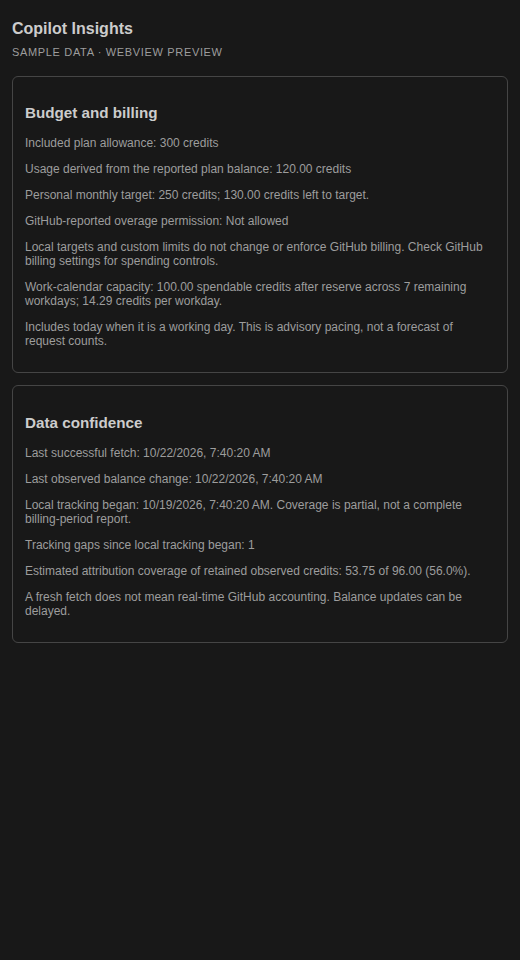
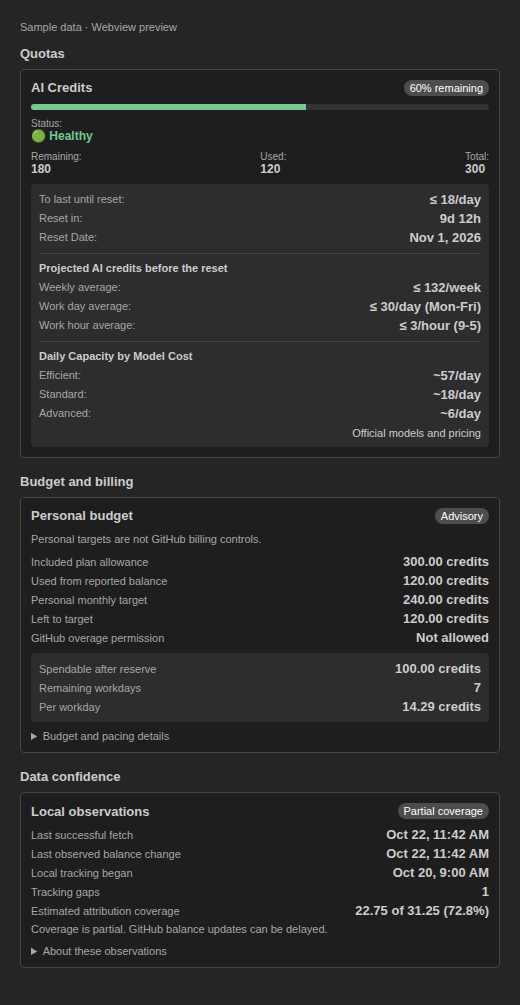
Align new insights panels with existing quota card styling

diff --git a/src/ui/webview/render.ts b/src/ui/webview/render.ts
@@ -207,11 +207,11 @@ export function renderShellHtml(webview: vscode.Webview, extensionUri: vscode.Ur
 
 	<div id="state-data" class="state hidden">
 		<div id="section-stale"></div>
-		<div id="section-confidence"></div>
 		<div id="section-quotas"></div>
-		<div id="section-budget"></div>
-		<div id="section-timeline"></div>
 		<div id="section-quotaBreakdown"></div>
+		<div id="section-budget"></div>
+		<div id="section-confidence"></div>
+		<div id="section-timeline"></div>
 		<div id="section-overage"></div>
 		<div id="section-history"></div>
 		<div id="section-periods"></div>
@@ -306,42 +306,87 @@ function observationDate(time: number | undefined): string {
     : t("Not observed");
 }
 
+/** Compact local dates; exact instants remain available to assistive technology. */
+function observationTime(time: number | undefined): string {
+  if (!time || !Number.isFinite(time)) { return escapeHtml(t("Not observed")); }
+  const date = new Date(time);
+  const label = date.toLocaleString(vscode.env.language, {
+    month: "short", day: "numeric", hour: "numeric", minute: "2-digit",
+  });
+  const exact = escapeHtml(`${observationDate(time)} (${date.toISOString()})`);
+  return `<time datetime="${date.toISOString()}" title="${exact}" aria-label="${exact}">${escapeHtml(label)}</time>`;
+}
+
+function observationRow(label: string, value: string): string {
+  return `<div class="prediction-row"><span class="prediction-label">${escapeHtml(label)}</span>` +
+    `<span class="prediction-value">${value}</span></div>`;
+}
+
+function observationDetails(label: string, text: string): string {
+  return `<details class="observation-details"><summary>${escapeHtml(label)}</summary>` +
+    `<div class="quota-description">${escapeHtml(text)}</div></details>`;
+}
+
 function renderConfidence(history: HistoryContext): string {
   const state = history.observations;
   if (!state) { return ""; }
   const total = state.intervals.reduce((sum, interval) => sum + interval.credits, 0);
   const attributed = state.intervals.reduce((sum, interval) => sum + (interval.project ? interval.credits : 0), 0);
   const ongoingGap = history.trackingInterrupted || (state.anchor && Date.now() - state.anchor.time > MAX_OBSERVATION_GAP_MS);
-  const lines = [
-    t("Last successful fetch: {0}", observationDate(history.lastSuccessfulFetch)),
-    t("Last observed balance change: {0}", observationDate(state.lastChange)),
-    history.timelineEnabled === false
-      ? t("Local observation tracking is disabled.")
-      : t("Local tracking began: {0}. Coverage is partial, not a complete billing-period report.", observationDate(state.firstObserved)),
-    t("Tracking gaps since local tracking began: {0}", state.gaps),
-    t("Estimated attribution coverage of retained observed credits: {0} of {1} ({2}%).",
-      attributed.toFixed(2), total.toFixed(2), total > 0 ? (100 * attributed / total).toFixed(1) : "0"),
-    t("A fresh fetch does not mean real-time GitHub accounting. Balance updates can be delayed."),
-  ];
-  if (ongoingGap) { lines.push(t("There is a tracking gap since the last valid balance observation.")); }
-  if (history.refreshFailed) { lines.unshift(t("The latest refresh failed. Showing the last successfully fetched data.")); }
-  return `<section class="observation-panel"><h3>${t("Data confidence")}</h3>${lines.map(line => `<p>${escapeHtml(line)}</p>`).join("")}</section>`;
+  const rows = [
+    observationRow(t("Last successful fetch"), observationTime(history.lastSuccessfulFetch)),
+    observationRow(t("Last observed balance change"), observationTime(state.lastChange)),
+    observationRow(t("Local tracking began"), observationTime(state.firstObserved)),
+    observationRow(t("Tracking gaps"), String(state.gaps)),
+    observationRow(t("Estimated attribution coverage"), escapeHtml(t("{0} of {1} ({2}%)",
+      attributed.toFixed(2), total.toFixed(2), total > 0 ? (100 * attributed / total).toFixed(1) : "0"))),
+  ].join("");
+  const notices = [
+    history.refreshFailed ? t("The latest refresh failed. Showing the last successfully fetched data.") : "",
+    ongoingGap ? t("There is a tracking gap since the last valid balance observation.") : "",
+    history.timelineEnabled === false ? t("Local observation tracking is disabled.") : "",
+  ].filter(Boolean).map(line => `<div class="quota-description"><strong>${escapeHtml(line)}</strong></div>`).join("");
+  return `<section class="section"><h2 class="section-title">${escapeHtml(t("Data confidence"))}</h2>` +
+    `<div class="quota-card observation-card"><div class="quota-header">` +
+    `<span class="quota-title">${escapeHtml(t("Local observations"))}</span>` +
+    `<span class="quota-badge">${escapeHtml(t("Partial coverage"))}</span></div>` +
+    notices + rows +
+    `<div class="quota-description">${escapeHtml(t("Coverage is partial. GitHub balance updates can be delayed."))}</div>` +
+    observationDetails(t("About these observations"), t("A fresh fetch does not mean real-time GitHub accounting. Balance updates can be delayed. Tracking gaps are counted since local tracking began. Estimated attribution coverage measures retained observed credits, not a complete billing-period report.")) +
+    `</div></section>`;
 }
 
 function renderTimeline(history: HistoryContext): string {
   if (!history.observations || history.timelineEnabled === false) { return ""; }
   const intervals = history.observations.intervals.filter(interval => interval.credits > 0).slice(-100).reverse();
   const rows = intervals.map(interval => {
-    const label = interval.project
-      ? t("Estimated project: {0}", interval.project) + (interval.branch ? ` · ${t("Estimated branch: {0}", interval.branch)}` : "")
-      : t("Unattributed");
-    return `<li><strong>${escapeHtml(t("{0} credits", interval.credits.toFixed(2)))}</strong><br>` +
-      `${escapeHtml(observationDate(interval.start))} – ${escapeHtml(observationDate(interval.end))}<br>` +
-      `${escapeHtml(label)}${interval.gap ? `<br>${t("Tracking gap — not a real-time spike")}` : ""}</li>`;
+    const start = new Date(interval.start);
+    const end = new Date(interval.end);
+    const dateOptions: Intl.DateTimeFormatOptions = { month: "short", day: "numeric", year: "numeric" };
+    const timeOptions: Intl.DateTimeFormatOptions = { hour: "numeric", minute: "2-digit" };
+    const date = (value: Date) => value.toLocaleDateString(vscode.env.language, dateOptions);
+    const time = (value: Date) => value.toLocaleTimeString(vscode.env.language, timeOptions);
+    const range = localDateKey(start) === localDateKey(end)
+      ? `${date(start)} · ${time(start)} – ${time(end)}`
+      : `${date(start)} · ${time(start)} – ${date(end)} · ${time(end)}`;
+    const exact = escapeHtml(`${observationDate(interval.start)} (${start.toISOString()}) – ${observationDate(interval.end)} (${end.toISOString()})`);
+    const metadata = interval.project
+      ? [t("Estimated project: {0}", interval.project), ...(interval.branch ? [t("Estimated branch: {0}", interval.branch)] : [])]
+      : [t("Unattributed")];
+    return `<li><div class="prediction-row">` +
+      `<span class="prediction-label" title="${exact}" aria-label="${exact}">${escapeHtml(range)}</span>` +
+      `<span class="pacing-value">${escapeHtml(t("{0} credits", interval.credits.toFixed(2)))}</span></div>` +
+      metadata.map(label => `<div class="quota-description" title="${escapeHtml(label)}">${escapeHtml(label)}</div>`).join("") +
+      (interval.gap ? `<div class="quota-description"><strong>${escapeHtml(t("Tracking gap — not a real-time spike"))}</strong></div>` : "") + `</li>`;
   }).join("");
-  return `<section class="observation-panel"><h3>${t("Recent usage timeline")}</h3>` +
-    `<p>${t("Observed balance drops, newest first (up to 100). Times bound observations, not requests. Project and branch labels are local estimates, never per-request or per-model attribution.")}</p>` +
-    (rows ? `<ol class="usage-timeline">${rows}</ol>` : `<p>${t("No balance drops observed in the retained window.")}</p>`) + "</section>";
+  return `<section class="section"><h2 class="section-title">${escapeHtml(t("Recent usage timeline"))}</h2>` +
+    `<div class="quota-card observation-card"><div class="quota-header">` +
+    `<span class="quota-title">${escapeHtml(t("Observed balance drops"))}</span>` +
+    `<span class="quota-badge">${escapeHtml(t("Newest first"))}</span></div>` +
+    `<div class="quota-description">${escapeHtml(t("Updates may be delayed; project and branch attribution is approximate."))}</div>` +
+    (rows ? `<ol class="usage-timeline" tabindex="0" aria-label="${escapeHtml(t("Recent usage timeline"))}">${rows}</ol>` : `<div class="quota-description">${escapeHtml(t("No balance drops observed in the retained window."))}</div>`) +
+    observationDetails(t("How to read this timeline"), t("Observed balance drops, newest first (up to 100). Times bound observations, not requests. Project and branch labels are local estimates, never per-request or per-model attribution.")) +
+    "</div></section>";
 }
 
 function renderBudget(data: CopilotUserData, config: RenderConfig): string {
@@ -353,20 +398,30 @@ function renderBudget(data: CopilotUserData, config: RenderConfig): string {
   const ceiling = Math.max(quota.entitlement, boundedNumber(config.customLimit, 0, 0, 10_000_000));
   const calendar = config.workCalendar ?? { weekdays: [1, 2, 3, 4, 5], daysOff: [], reserve: 0, personalBudget: target };
   const capacity = workdayCapacity(ceiling - used, used, data.quota_reset_date_utc, { ...calendar, personalBudget: target });
-  const lines = [
-    t("Included plan allowance: {0} credits", quota.entitlement),
-    t("Usage derived from the reported plan balance: {0} credits", used.toFixed(2)),
-    target > 0 ? t("Personal monthly target: {0} credits; {1} credits left to target.", target, Math.max(0, target - used).toFixed(2)) : t("Personal monthly target: not set"),
-    t("GitHub-reported overage permission: {0}", quota.overage_permitted ? t("Allowed") : t("Not allowed")),
-    t("Local targets and custom limits do not change or enforce GitHub billing. Check GitHub billing settings for spending controls."),
-    t("Work-calendar capacity: {0} spendable credits after reserve across {1} remaining workdays; {2} credits per workday.",
-      capacity.spendable.toFixed(2), capacity.days, capacity.perDay.toFixed(2)),
-    t("Includes today when it is a working day. This is advisory pacing, not a forecast of request counts."),
+  const credits = (value: number) => escapeHtml(t("{0} credits", value.toFixed(2)));
+  const rows = [
+    observationRow(t("Included plan allowance"), credits(quota.entitlement)),
+    observationRow(t("Used from reported balance"), credits(used)),
+    observationRow(t("Personal monthly target"), target > 0 ? credits(target) : escapeHtml(t("Not set"))),
+    ...(target > 0 ? [observationRow(t("Left to target"), credits(Math.max(0, target - used)))] : []),
+    observationRow(t("GitHub overage permission"), escapeHtml(quota.overage_permitted ? t("Allowed") : t("Not allowed"))),
   ];
   if (config.customLimit > quota.entitlement) {
-    lines.splice(2, 0, t("Custom advisory limit: {0} credits (includes capacity beyond the plan allowance).", config.customLimit));
+    rows.splice(2, 0, observationRow(t("Custom advisory limit"), credits(config.customLimit)));
   }
-  return `<section class="observation-panel"><h3>${t("Budget and billing")}</h3>${lines.map(line => `<p>${escapeHtml(line)}</p>`).join("")}</section>`;
+  const pacingRow = (label: string, value: string) =>
+    `<div class="pacing-row"><span class="pacing-label">${escapeHtml(label)}</span><span class="pacing-value">${value}</span></div>`;
+  return `<section class="section"><h2 class="section-title">${escapeHtml(t("Budget and billing"))}</h2>` +
+    `<div class="quota-card observation-card"><div class="quota-header">` +
+    `<span class="quota-title">${escapeHtml(t("Personal budget"))}</span>` +
+    `<span class="quota-badge">${escapeHtml(t("Advisory"))}</span></div>` +
+    `<div class="quota-description">${escapeHtml(t("Personal targets are not GitHub billing controls."))}</div>` +
+    rows.join("") + `<div class="quota-pacing-highlight">` +
+    pacingRow(t("Spendable after reserve"), credits(capacity.spendable)) +
+    pacingRow(t("Remaining workdays"), String(capacity.days)) +
+    pacingRow(t("Per workday"), credits(capacity.perDay)) + `</div>` +
+    observationDetails(t("Budget and pacing details"), t("Local targets and custom limits do not change or enforce GitHub billing. Check GitHub billing settings for spending controls. A custom advisory limit can include capacity beyond the plan allowance. Includes today when it is a working day. This is advisory pacing, not a forecast of request counts.")) +
+    `</div></section>`;
 }
 
 /**

diff --git a/src/test/render.test.ts b/src/test/render.test.ts
@@ -1,5 +1,6 @@
 import * as assert from "assert";
-import { buildViewModel, HistoryContext, RenderConfig } from "../ui/webview/render";
+import { buildViewModel, HistoryContext, RenderConfig, renderShellHtml } from "../ui/webview/render";
+import * as vscode from "vscode";
 import {
   AttributionState,
   CopilotUserData,
@@ -26,6 +27,8 @@ suite("Observation, confidence and budget rendering", () => {
     assert.ok(model.sections.timeline.includes("&lt;img"));
     assert.ok(model.sections.timeline.includes("&lt;script&gt;"));
     assert.ok(!model.sections.timeline.includes("<img"));
+    assert.ok(model.sections.timeline.includes('title="Estimated branch: &quot;&lt;script&gt;bad&lt;/script&gt;"'));
+    assert.ok(model.sections.timeline.includes('title="Estimated project: &lt;img src=x onerror=alert(1)&gt;"'));
     assert.ok(model.sections.timeline.includes("Unattributed"));
     assert.ok(model.sections.timeline.includes("not a real-time spike"));
     assert.ok(model.sections.confidence.includes("10.00 of 30.00 (33.3%)"));
@@ -65,11 +68,111 @@ suite("Observation, confidence and budget rendering", () => {
     for (const section of ["quotas", "overage", "weighted", "trend", "periods"] as const) {
       assert.strictEqual(budget.sections[section], original.sections[section]);
     }
-    assert.ok(budget.sections.budget.includes("Included plan allowance: 300"));
-    assert.ok(budget.sections.budget.includes("Personal monthly target: 100"));
-    assert.ok(budget.sections.budget.includes("balance: 320.00"));
-    assert.ok(budget.sections.budget.includes("Custom advisory limit: 500"));
+    assert.ok(budget.sections.budget.includes('Included plan allowance</span><span class="prediction-value">300.00 credits'));
+    assert.ok(budget.sections.budget.includes('Personal monthly target</span><span class="prediction-value">100.00 credits'));
+    assert.ok(budget.sections.budget.includes('Left to target</span><span class="prediction-value">0.00 credits'));
+    assert.ok(budget.sections.budget.includes('Used from reported balance</span><span class="prediction-value">320.00 credits'));
+    assert.ok(budget.sections.budget.includes('Custom advisory limit</span><span class="prediction-value">500.00 credits'));
     assert.ok(budget.sections.budget.includes("do not change or enforce GitHub billing"));
+  });
+
+  test("reuses quota cards and compact metric rows with visible caveats and failure states", () => {
+    const model = buildViewModel(makeUserData(), [], makeConfig(), {
+      rollups: [], periods: [], refreshFailed: true, trackingInterrupted: true,
+      observations: { intervals: [], gaps: 3 },
+    });
+    for (const section of ["budget", "confidence", "timeline"] as const) {
+      const html = model.sections[section];
+      assert.ok(html.startsWith('<section class="section"><h2 class="section-title">'));
+      for (const cls of ["quota-card observation-card", "quota-header", "quota-title", "quota-badge", "quota-description"]) {
+        assert.ok(html.includes(`class="${cls}"`), `missing ${cls} in ${section}`);
+      }
+      assert.ok(!html.includes("observation-panel"));
+      assert.ok(html.includes('<details class="observation-details"><summary>'));
+    }
+    const visible = model.sections.confidence.split("<details")[0];
+    assert.ok(visible.includes("latest refresh failed"));
+    assert.ok(visible.includes("tracking gap since the last valid"));
+    assert.ok(visible.includes('Tracking gaps</span><span class="prediction-value">3'));
+    assert.ok(visible.includes("updates can be delayed"));
+    assert.ok(model.sections.budget.split("<details")[0].includes("not GitHub billing controls"));
+    assert.ok(model.sections.timeline.split("<details")[0].includes("attribution is approximate"));
+    assert.ok(model.sections.budget.includes('class="quota-pacing-highlight"'));
+    assert.ok(model.sections.budget.includes('class="pacing-row"'));
+  });
+
+  test("empty and zero observations do not imply usage or attribution coverage", () => {
+    const now = Date.now();
+    for (const intervals of [[], [{ start: now - 60000, end: now, credits: 0, gap: false }]]) {
+      const model = buildViewModel(makeUserData(), [], makeConfig(), {
+        rollups: [], periods: [], observations: { intervals, gaps: 0 },
+      });
+      assert.ok(model.sections.confidence.includes("0.00 of 0.00 (0%)"));
+      assert.ok(model.sections.confidence.includes("Not observed"));
+      assert.ok(model.sections.timeline.includes("No balance drops observed"));
+      assert.ok(!model.sections.timeline.includes("<ol"));
+      assert.ok(!model.sections.confidence.includes("NaN"));
+    }
+  });
+
+  test("timeline uses one same-day date, explicit cross-day dates and exact accessible instants", () => {
+    const start = new Date(2026, 9, 20, 10, 20, 30, 123).getTime();
+    const end = start + 60000;
+    const nextDay = new Date(2026, 9, 21, 10, 20).getTime();
+    const render = (until: number) => buildViewModel(makeUserData(), [], makeConfig(), {
+      rollups: [], periods: [],
+      observations: { intervals: [{ start, end: until, credits: 2.5, gap: true }], gaps: 1 },
+      lastSuccessfulFetch: end,
+    });
+    const sameDay = render(end);
+    const dateLabel = (when: number) => new Date(when).toLocaleDateString(vscode.env.language, { month: "short", day: "numeric", year: "numeric" });
+    const visibleText = (html: string) => html.replace(/<[^>]*>/g, "");
+    assert.strictEqual(visibleText(sameDay.sections.timeline).split(dateLabel(start)).length - 1, 1);
+    const crossDay = render(nextDay).sections.timeline;
+    assert.ok(visibleText(crossDay).includes(dateLabel(start)));
+    assert.ok(visibleText(crossDay).includes(dateLabel(nextDay)));
+    assert.ok(sameDay.sections.timeline.includes(`(${new Date(start).toISOString()})`));
+    assert.ok(sameDay.sections.timeline.includes(`(${new Date(end).toISOString()})`));
+    assert.ok(sameDay.sections.timeline.includes('aria-label="'));
+    assert.ok(sameDay.sections.timeline.includes('tabindex="0"'));
+    assert.ok(sameDay.sections.timeline.split("<details")[0].includes("not a real-time spike"));
+    assert.ok(sameDay.sections.confidence.includes(`datetime="${new Date(end).toISOString()}"`));
+  });
+
+  test("timeline remains newest-first and bounded to 100 positive drops", () => {
+    const start = Date.now() - 200 * 60000;
+    const intervals = Array.from({ length: 102 }, (_, i) => ({
+      start: start + i * 60000, end: start + (i + 1) * 60000, credits: i, gap: false,
+    }));
+    const html = buildViewModel(makeUserData(), [], makeConfig(), {
+      rollups: [], periods: [], observations: { intervals, gaps: 0 },
+    }).sections.timeline;
+    assert.strictEqual((html.match(/<li>/g) ?? []).length, 100);
+    assert.ok(html.indexOf(">101.00 credits") < html.indexOf(">100.00 credits"));
+    assert.ok(!html.includes(">1.00 credits"));
+    assert.ok(!html.includes(">0.00 credits"));
+  });
+
+  test("unset targets and zero workday capacity remain explicit; unsupported quotas omit budget", () => {
+    const config = makeConfig({ workCalendar: { weekdays: [], daysOff: [], reserve: 0, personalBudget: 0 } });
+    const html = buildViewModel(makeUserData(), [], config).sections.budget;
+    assert.ok(html.includes('Personal monthly target</span><span class="prediction-value">Not set'));
+    assert.ok(!html.includes("Left to target"));
+    assert.ok(html.includes('Remaining workdays</span><span class="pacing-value">0'));
+    assert.ok(html.includes('Per workday</span><span class="pacing-value">0.00 credits'));
+    for (const quota of [makeQuota({ unlimited: true }), makeQuota({ entitlement: 0 })]) {
+      assert.strictEqual(buildViewModel(makeUserData({ quota_snapshots: { premium_interactions: quota } }), [], config).sections.budget, "");
+    }
+    assert.strictEqual(buildViewModel(makeUserData({ quota_snapshots: {} }), [], config).sections.budget, "");
+  });
+
+  test("quota and breakdown remain before the new supporting sections in the shell", () => {
+    const webview = { cspSource: "test", asWebviewUri: (uri: vscode.Uri) => uri } as vscode.Webview;
+    const html = renderShellHtml(webview, vscode.Uri.file("/extension"));
+    assert.ok(html.indexOf('id="section-quotas"') < html.indexOf('id="section-quotaBreakdown"'));
+    for (const section of ["budget", "confidence", "timeline"]) {
+      assert.ok(html.indexOf('id="section-quotaBreakdown"') < html.indexOf(`id="section-${section}"`));
+    }
   });
 });
 

diff --git a/media/main.css b/media/main.css
@@ -756,24 +756,59 @@ body {
 	color: var(--vscode-descriptionForeground);
 	margin-bottom: 10px;
 }
-/* Local observations: bounded scroll area, readable long workspace names. */
-.observation-panel {
-  margin: 12px 0;
-  padding: 12px;
-  border: 1px solid var(--vscode-widget-border);
-  border-radius: 6px;
-  overflow-wrap: anywhere;
+/* Reuse quota cards and metric rows, including in narrow sidebars. */
+.observation-card {
+	overflow-wrap: anywhere;
 }
-.observation-panel p {
-  font-size: 12px;
-  color: var(--vscode-descriptionForeground);
+.observation-card .quota-header {
+	gap: 8px;
+	flex-wrap: wrap;
+}
+.observation-card .prediction-row,
+.observation-card .pacing-row {
+	align-items: baseline;
+	gap: 10px;
+}
+.observation-card .prediction-label,
+.observation-card .pacing-label {
+	min-width: 0;
+	flex: 1;
+}
+.observation-card .prediction-value,
+.observation-card .pacing-value {
+	min-width: 0;
+	max-width: 55%;
+	text-align: right;
+	font-size: 13px;
+	font-variant-numeric: tabular-nums;
+}
+.observation-details {
+	margin-top: 8px;
+	font-size: 11px;
+	color: var(--vscode-descriptionForeground);
+}
+.observation-details summary {
+	cursor: pointer;
+}
+.observation-details .quota-description {
+	margin: 6px 0 0;
+}
+.observation-details summary:focus-visible,
+.usage-timeline:focus-visible {
+	outline: 1px solid var(--vscode-focusBorder);
+	outline-offset: 2px;
 }
 .usage-timeline {
-  max-height: 340px;
-  overflow-y: auto;
-  padding-left: 22px;
+	max-height: 340px;
+	overflow-y: auto;
+	list-style: none;
+	padding: 0;
+	margin: 0;
 }
 .usage-timeline li {
-  margin-bottom: 12px;
-  font-size: 12px;
+	padding: 8px 0;
+	border-top: 1px solid var(--vscode-panel-border);
+}
+.usage-timeline li .quota-description {
+	margin-bottom: 0;
 }
